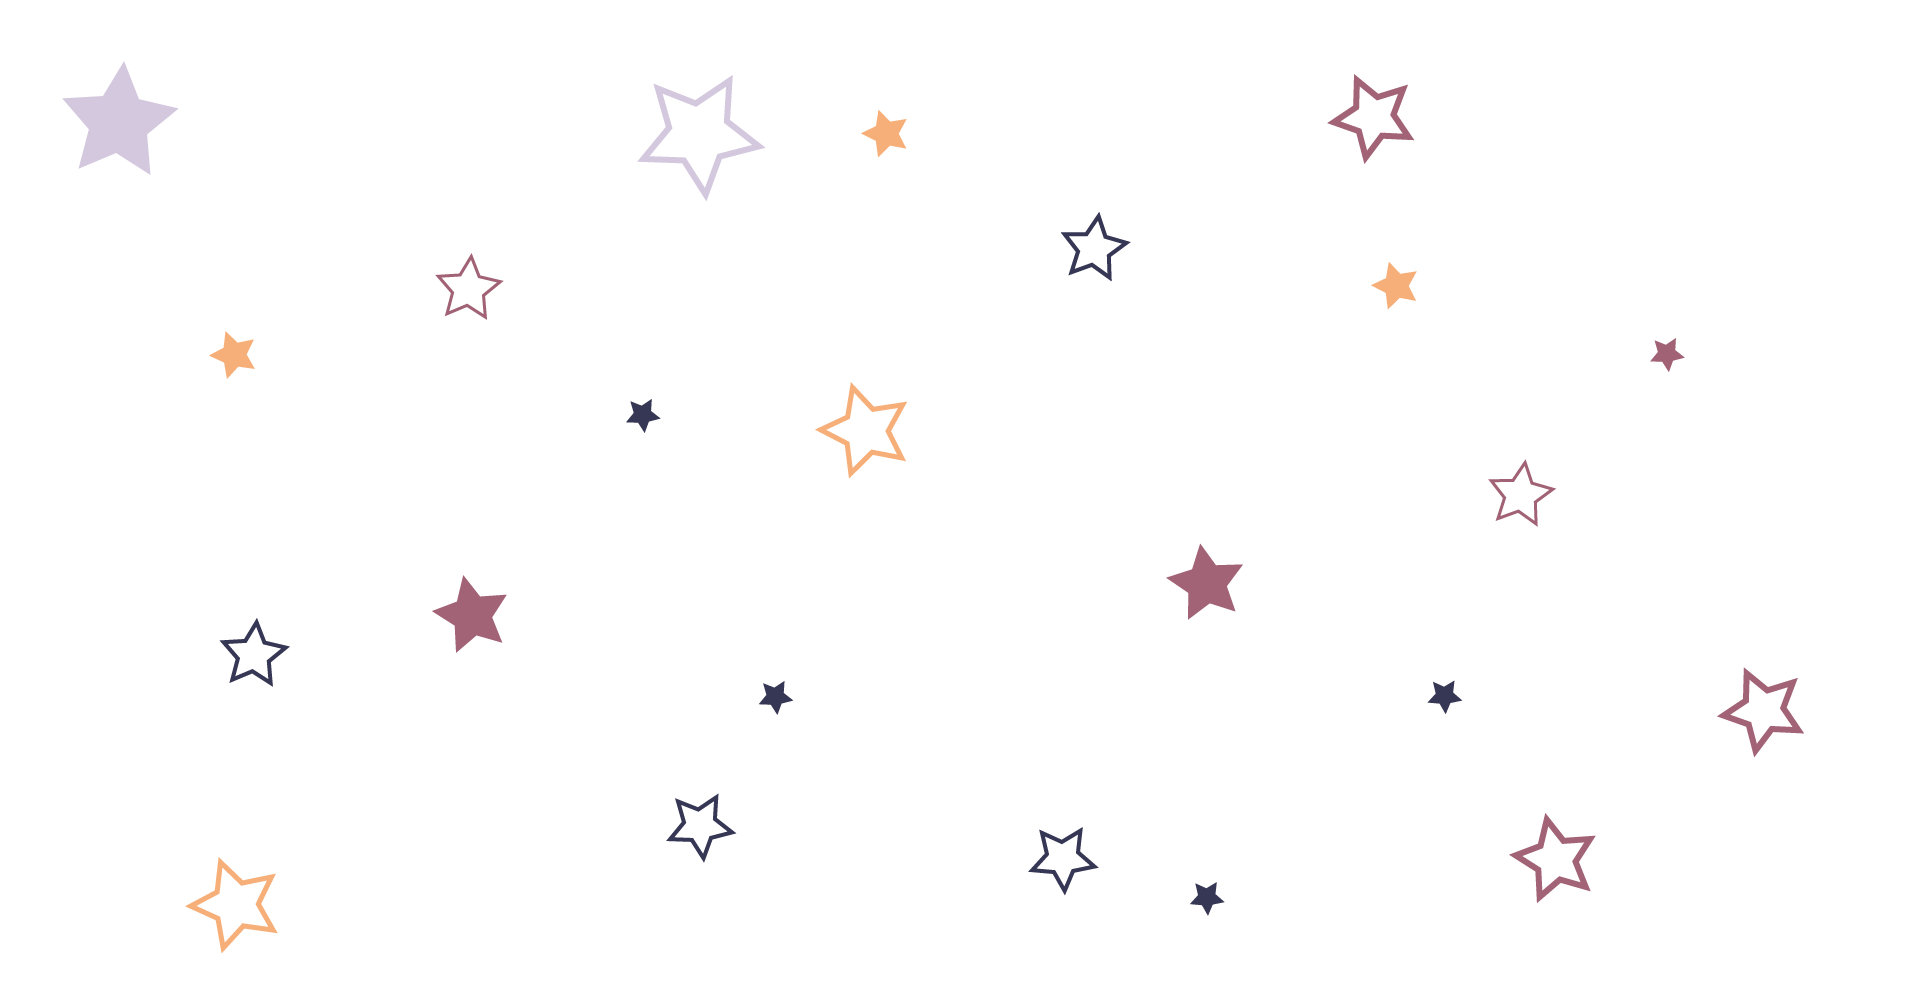
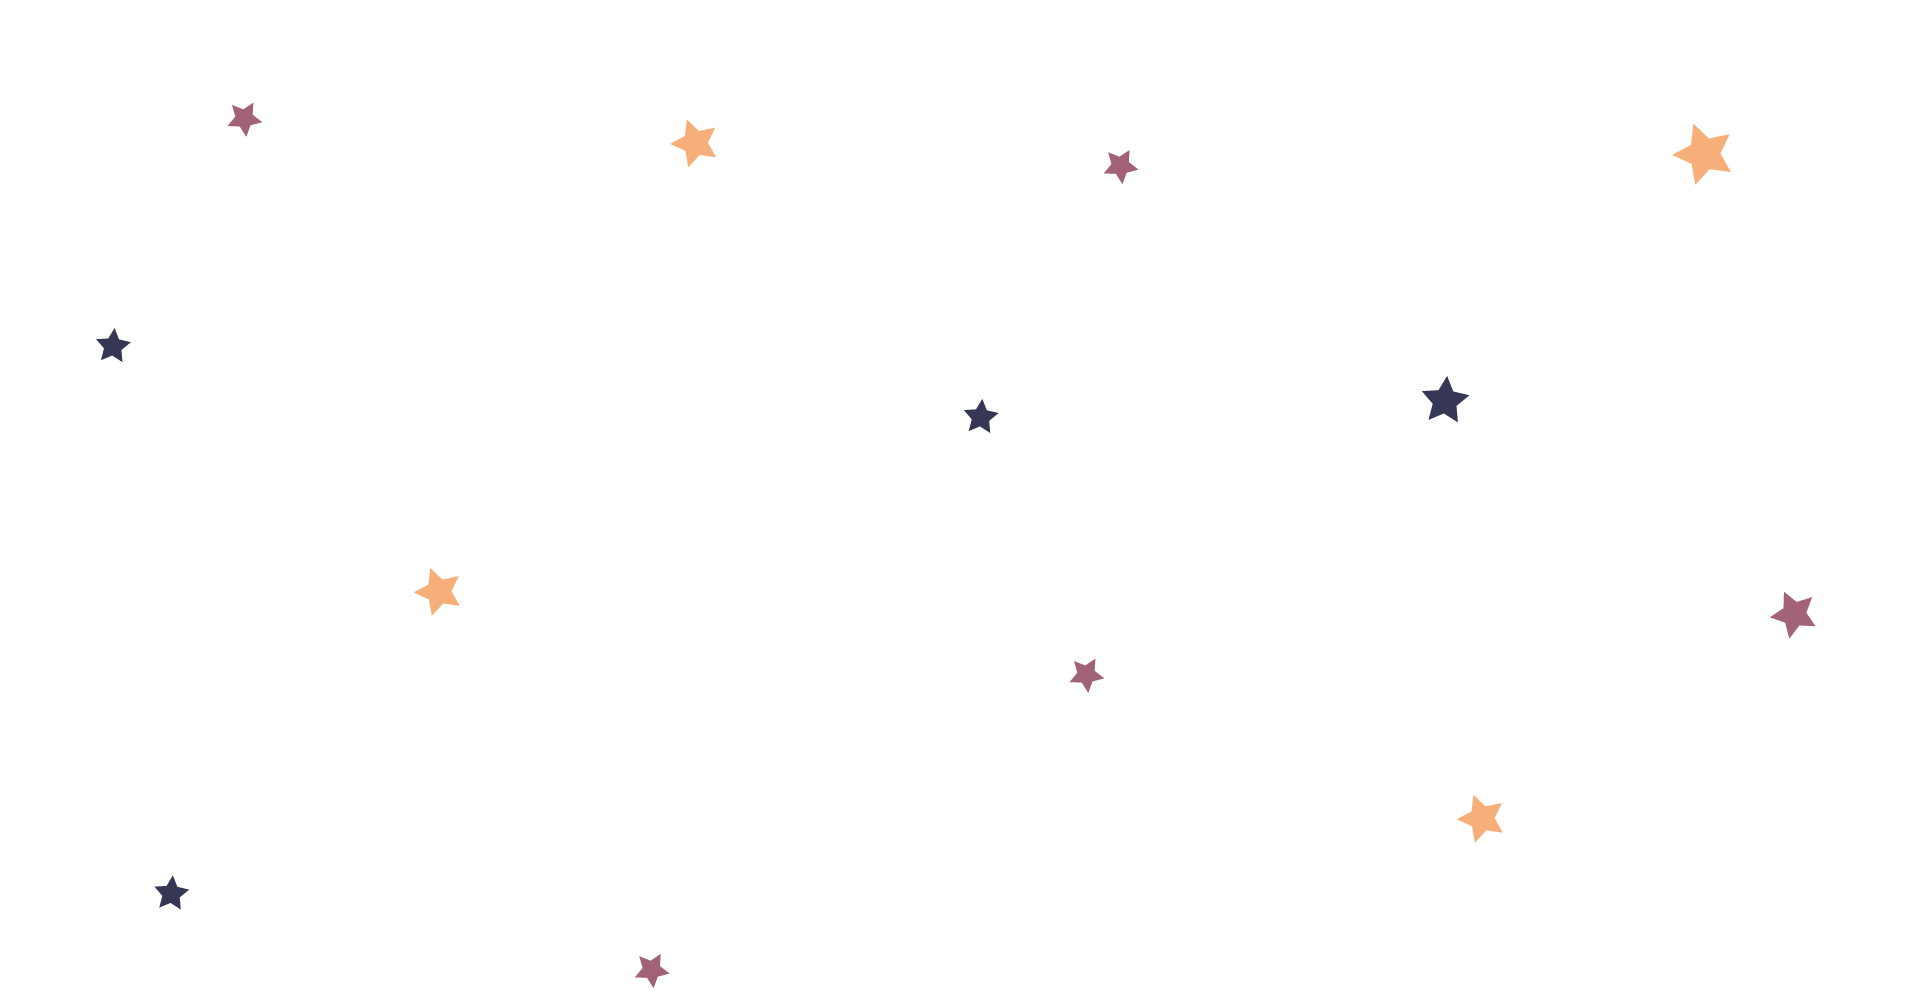
deleted images, fixed clutter

diff --git a/styles.css b/styles.css
@@ -40,23 +40,16 @@ body {
   }
   .layer-3 {
     top: -700px;
-    z-index: 15;
+    z-index: 5;
     background-image: url("layer3.png");
     background-size: 300px 150px;
   }
   .layer-4 {
     top: -550px;
-    z-index: 5;
+    z-index: 15;
     background-image: url("layer4.png");
     background-size: 400px 208px;
   }
-  .layer-5 {
-    top: -770px;
-    z-index: 25;
-    background-image: url("layer5.png");
-    background-size: 300px 150px;
-  }
-
 
 .content {
   position: absolute;
